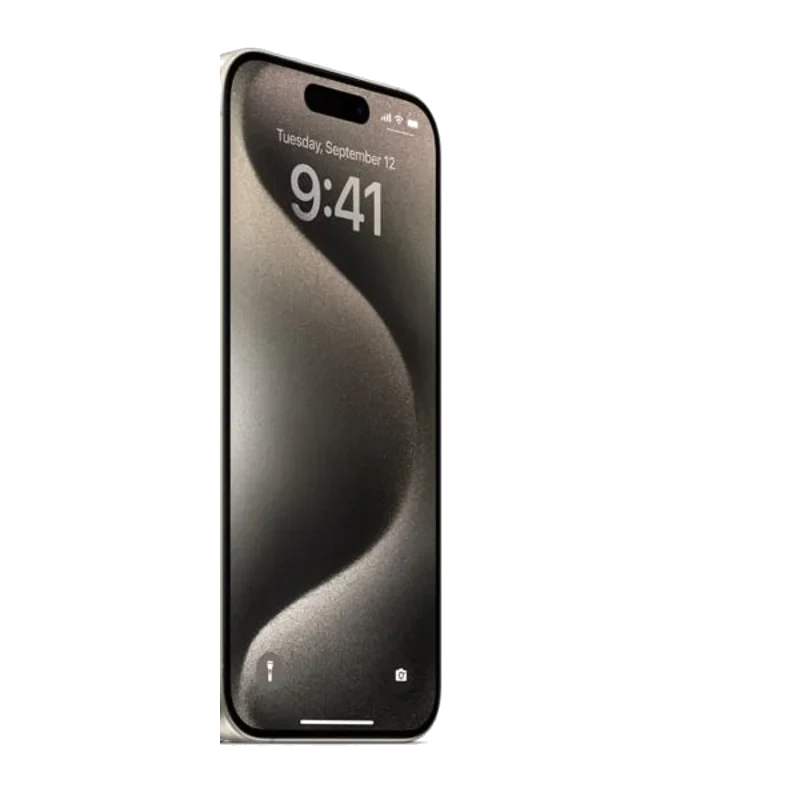
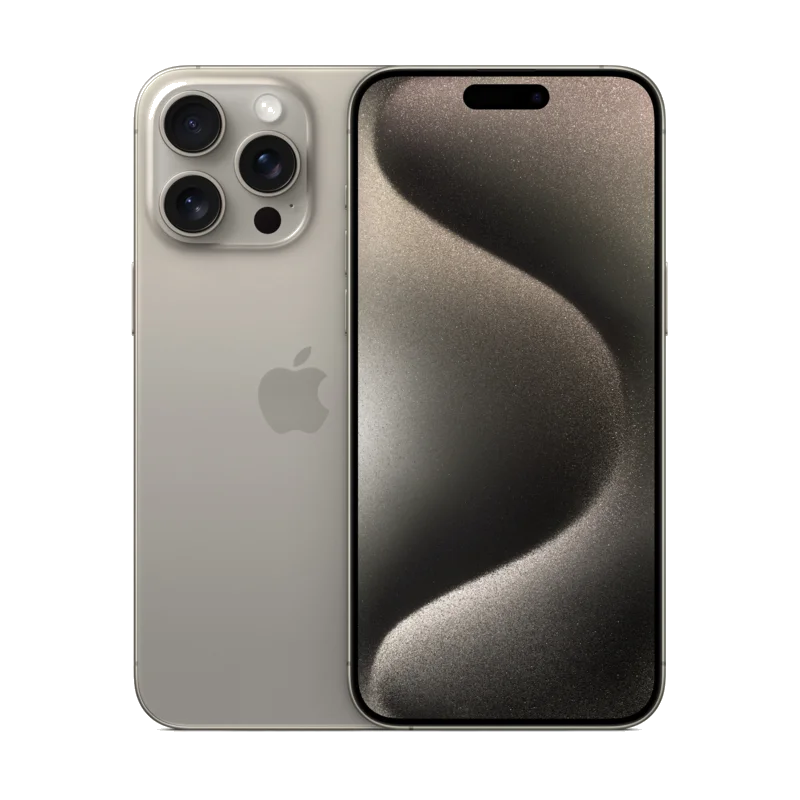
fix(uses): drop VPN from Dashlane card + ChatGPT→Claude Max + cleaner iPhone shot
Three content tweaks per user request:

1) **Dashlane card** lost the «+ HotSpot Shield VPN» part of the title
and the «VPN от HotSpotShield на 4 устройства» sentence in the
description. Reason: the bundled VPN isn't actually a feature the user
wants on the page. Title is now just «Dashlane»; description trims to
«Dark Web Monitoring и встроенный 2FA-аутентификатор». EN mirror.

2) **ChatGPT Plus → Claude Max.** User has moved their daily AI driver
to Claude. The $100/mo Anthropic tier is Claude Max (5× Pro usage).
Updated:
   - Title: ChatGPT Plus → Claude Max
   - Price: $20 → $100/mo
   - Description: keeps the «Google + Stack Overflow + therapist + 3-4
     hours/day» framing (still accurate) but swaps the «accumulated
     personal context» justification (Plus-specific) for «Max снимает
     лимиты Pro — пишу столько, сколько нужно» (the actual reason to
     upgrade from Pro to Max).
   - CTA: «Оформить Plus →» → «Оформить Max →», href to claude.ai/.

3) **iPhone 15 Pro Max image** re-sourced. The previous shot was
cropped from a 4-titanium Apple Newsroom lineup — looked tilted, with
slivers of adjacent phones leaking into the frame. New shot is the
canonical Apple Shop «select» PDF: back-and-front composition, single
device, Natural Titanium, 2000×2000 source, processed to a 39.86 KB
transparent webp with the standard fuzz=8% + alpha-threshold pipeline.
Filename unchanged (`iphone-15-pro-max.webp`) — the content-hash
[…]

diff --git a/uses.html b/uses.html
@@ -340,8 +340,8 @@
                   <span class="v4-tag">Password manager</span>
                   <span>$5&nbsp;/&nbsp;mo</span>
                 </div>
-                <h4 class="v4-product-name">Dashlane + HotSpot Shield VPN</h4>
-                <p class="v4-product-desc">Менеджер паролей с 5-летним стажем без скандалов и утечек. Внутри Dark&nbsp;Web&nbsp;Monitoring, VPN от HotSpotShield на 4&nbsp;устройства и встроенный 2FA-аутентификатор.</p>
+                <h4 class="v4-product-name">Dashlane</h4>
+                <p class="v4-product-desc">Менеджер паролей с 5-летним стажем без скандалов и утечек. Внутри Dark&nbsp;Web&nbsp;Monitoring и встроенный 2FA-аутентификатор.</p>
                 <a class="v4-btn" href="https://www.dashlane.com/" target="_blank" rel="noopener noreferrer">6 месяцев premium →</a>
               </article>
               <article class="v4-product">
@@ -365,11 +365,11 @@
               <article class="v4-product">
                 <div class="v4-product-head">
                   <span class="v4-tag">AI</span>
-                  <span>$20&nbsp;/&nbsp;mo</span>
+                  <span>$100&nbsp;/&nbsp;mo</span>
                 </div>
-                <h4 class="v4-product-name">ChatGPT Plus</h4>
-                <p class="v4-product-desc">Заменил Google для поиска, Stack&nbsp;Overflow для кода, иногда — психотерапевта. 3-4&nbsp;часа в день. Ценность Plus — в накопленном за годы персональном контексте.</p>
-                <a class="v4-btn" href="https://chatgpt.com/" target="_blank" rel="noopener noreferrer">Оформить Plus →</a>
+                <h4 class="v4-product-name">Claude Max</h4>
+                <p class="v4-product-desc">Заменил Google для поиска, Stack&nbsp;Overflow для кода, иногда — психотерапевта. 3-4&nbsp;часа в день. Max снимает лимиты Pro — пишу столько, сколько нужно.</p>
+                <a class="v4-btn" href="https://claude.ai/" target="_blank" rel="noopener noreferrer">Оформить Max →</a>
               </article>
               <article class="v4-product">
                 <div class="v4-product-head">

diff --git a/en/uses.html b/en/uses.html
@@ -338,8 +338,8 @@
                   <span class="v4-tag">Password manager</span>
                   <span>$5&nbsp;/&nbsp;mo</span>
                 </div>
-                <h4 class="v4-product-name">Dashlane + HotSpot Shield VPN</h4>
-                <p class="v4-product-desc">Password manager, 5&nbsp;years no breaches. Includes Dark&nbsp;Web&nbsp;Monitoring, HotSpot&nbsp;Shield VPN for 4&nbsp;devices, and a built-in 2FA authenticator.</p>
+                <h4 class="v4-product-name">Dashlane</h4>
+                <p class="v4-product-desc">Password manager, 5&nbsp;years no breaches. Includes Dark&nbsp;Web&nbsp;Monitoring and a built-in 2FA authenticator.</p>
                 <a class="v4-btn" href="https://www.dashlane.com/" target="_blank" rel="noopener noreferrer">6 months premium →</a>
               </article>
               <article class="v4-product">
@@ -363,11 +363,11 @@
               <article class="v4-product">
                 <div class="v4-product-head">
                   <span class="v4-tag">AI</span>
-                  <span>$20&nbsp;/&nbsp;mo</span>
+                  <span>$100&nbsp;/&nbsp;mo</span>
                 </div>
-                <h4 class="v4-product-name">ChatGPT Plus</h4>
-                <p class="v4-product-desc">Replaced Google for search, Stack&nbsp;Overflow for code, sometimes my therapist. 3-4&nbsp;hours a day. The value of Plus is the personal context it has accumulated over years.</p>
-                <a class="v4-btn" href="https://chatgpt.com/" target="_blank" rel="noopener noreferrer">Get Plus →</a>
+                <h4 class="v4-product-name">Claude Max</h4>
+                <p class="v4-product-desc">Replaced Google for search, Stack&nbsp;Overflow for code, sometimes my therapist. 3-4&nbsp;hours a day. Max lifts Pro's usage caps — chat as much as I need.</p>
+                <a class="v4-btn" href="https://claude.ai/" target="_blank" rel="noopener noreferrer">Get Max →</a>
               </article>
               <article class="v4-product">
                 <div class="v4-product-head">
